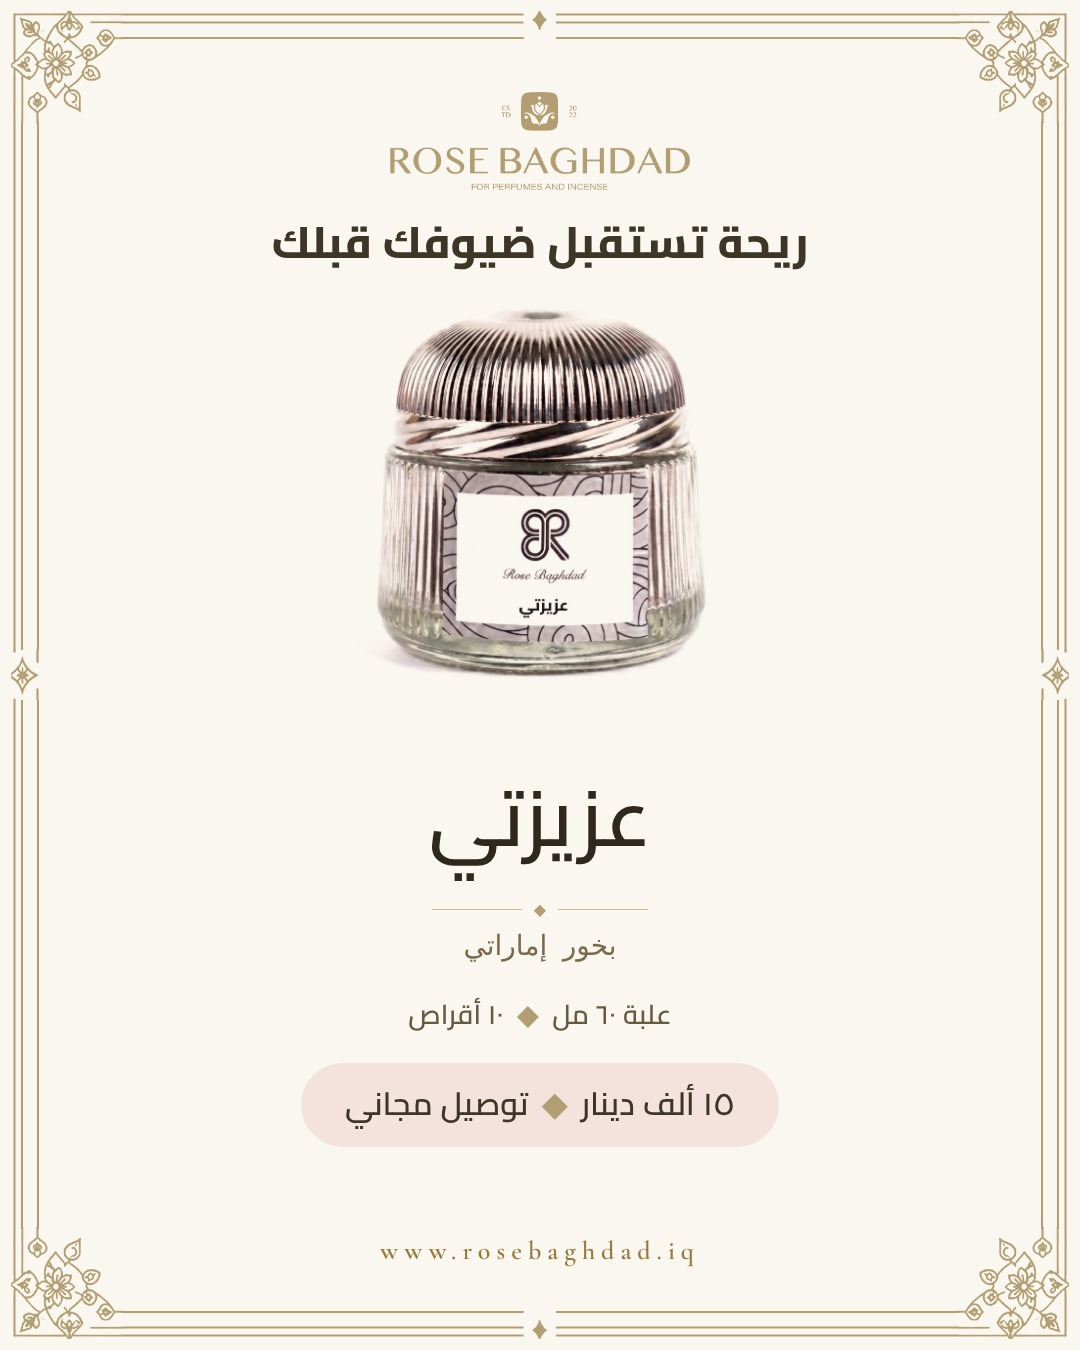
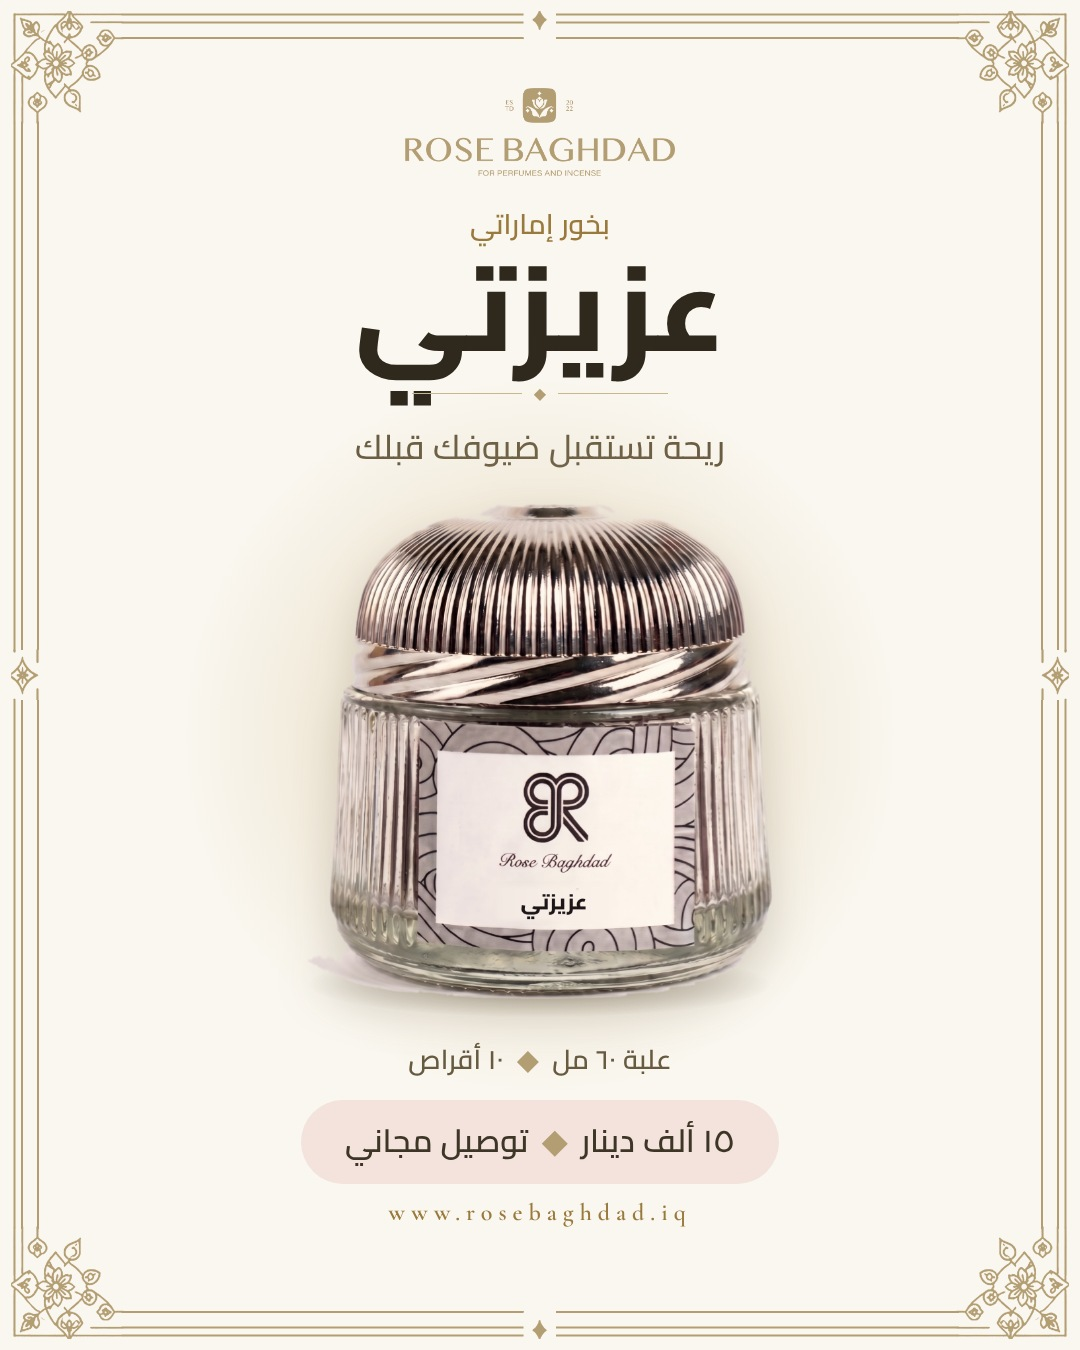
Incense cards v2: name on top, cut-out jar lower with glow and shadow
Claude-Session: https://claude.ai/code/session_01HXze8h1ERTKVVJtJjHvpYz

Changed region(s): [[0.2444, 0.0622, 0.7639, 0.8711], [0.4278, 0.9022, 0.6417, 0.9333]]

diff --git a/tools/frame/incense_card.html b/tools/frame/incense_card.html
@@ -1,0 +1,43 @@
+<!doctype html><html lang="ar"><head><meta charset="utf-8"><style>
+@font-face{font-family:CG;font-weight:600;src:url(../reel/fonts/cormorant-garamond-latin-600-normal.woff2)}
+@font-face{font-family:CA;font-weight:500;src:url(../reel/fonts/cairo-arabic-500-normal.woff2);unicode-range:U+0600-06FF,U+0750-077F,U+FB50-FDFF,U+FE70-FEFF,U+066B-066C}
+@font-face{font-family:CA;font-weight:600;src:url(../reel/fonts/cairo-arabic-600-normal.woff2);unicode-range:U+0600-06FF,U+0750-077F,U+FB50-FDFF,U+FE70-FEFF,U+066B-066C}
+@font-face{font-family:CA;font-weight:800;src:url(../reel/fonts/cairo-arabic-800-normal.woff2);unicode-range:U+0600-06FF,U+0750-077F,U+FB50-FDFF,U+FE70-FEFF,U+066B-066C}
+html,body{margin:0;background:#faf7f0}
+#r{width:1080px;position:relative;overflow:hidden;background:#faf7f0;display:flex;flex-direction:column;align-items:center;box-sizing:border-box}
+#fr{position:absolute;left:0;top:0;width:100%;height:100%}
+#r>*:not(#fr){position:relative}
+.kick{font-family:CA;font-weight:600;direction:rtl;color:#9a7a3c;letter-spacing:0}
+.name{font-family:CA;font-weight:800;direction:rtl;color:#2e281d;line-height:1.15}
+.dv{display:flex;align-items:center;gap:12px;color:#b39d72;font-size:16px}
+.dv i{display:block;width:110px;height:1px;background:#c9b88f}
+.hook{font-family:CA;font-weight:500;direction:rtl;color:#665a41;text-align:center}
+.stage{display:flex;justify-content:center;align-items:flex-end}
+.glow{position:absolute;left:50%;top:50%;transform:translate(-50%,-52%);border-radius:50%;background:radial-gradient(circle,rgba(201,173,116,.42) 0%,rgba(201,173,116,.16) 45%,rgba(201,173,116,0) 70%)}
+.sh{position:absolute;left:50%;transform:translateX(-50%);border-radius:50%;background:radial-gradient(ellipse at center,rgba(61,46,20,.42) 0%,rgba(61,46,20,.14) 45%,rgba(61,46,20,0) 72%)}
+.jar{position:relative;filter:drop-shadow(0 18px 22px rgba(61,46,20,.18))}
+.ft{font-family:CA;font-weight:600;direction:rtl;color:#665a41}
+.ft b,.pill b{color:#b39d72;font-weight:600;margin:0 14px}
+.pill{font-family:CA;font-weight:600;direction:rtl;background:#f4e2dc;color:#3d3627;border-radius:60px}
+.cta{font-family:CA;font-weight:800;direction:rtl;color:#3d3627;background:#b39d72;border-radius:60px}
+.url{font-family:CG;font-weight:600;letter-spacing:6px;color:#9a7a3c}
+</style></head><body><div id="r"></div>
+<script>
+const q=new URLSearchParams(location.search),S=q.get('f')==='story',r=document.getElementById('r'),J=S?640:500;
+r.style.height=(S?1920:1350)+'px';
+r.innerHTML=`<img id="fr" src="frame_${S?'story':'feed'}.png">
+<img src="../reel/horizontal_gold.png" style="width:${S?320:270}px;margin-top:${S?235:88}px">
+<div class="kick" style="font-size:${S?34:28}px;margin-top:${S?46:22}px">بخور إماراتي</div>
+<div class="name" style="font-size:${S?150:118}px;margin-top:${S?0:-6}px">${q.get('name')}</div>
+<div class="dv" style="margin-top:${S?14:4}px"><i></i>◆<i></i></div>
+<div class="hook" style="font-size:${S?42:34}px;margin-top:${S?22:12}px">${q.get('hook')}</div>
+<div class="stage" style="height:${J}px;margin-top:${S?44:22}px">
+ <div class="glow" style="width:${J*1.45}px;height:${J*1.45}px"></div>
+ <div class="sh" style="width:${J*.92}px;height:${J*.13}px;bottom:${-J*.035}px"></div>
+ <img class="jar" src="cut/${q.get('k')}.png" style="height:${J}px">
+</div>
+<div class="ft" style="font-size:${S?32:27}px;margin-top:${S?52:34}px">علبة ٦٠ مل<b>◆</b>١٠ أقراص</div>
+<div class="pill" style="font-size:${S?38:32}px;padding:${S?'12px 50px 16px':'10px 44px 14px'};margin-top:${S?24:16}px">١٥ ألف دينار<b>◆</b>توصيل مجاني</div>
+${S?`<div class="cta" style="font-size:36px;padding:8px 60px 14px;margin-top:26px">راسلنا لتثبيت طلبك</div>`:''}
+<div class="url" style="font-size:${S?28:24}px;margin-top:${S?24:14}px">www.rosebaghdad.iq</div>`;
+</script></body></html>

diff --git a/tools/frame/incense.py b/tools/frame/incense.py
@@ -1,29 +1,36 @@
-"""Rose Baghdad incense: same jar, the name on the label changes. Renders feed + story in the unified frame.
-python3 tools/frame/incense.py"""
+"""Rose Baghdad incense: same jar, the name on the label changes. Cuts the jar out of its backdrop and
+renders feed + story in the unified frame (name on top, jar below).  python3 tools/frame/incense.py"""
 import asyncio,os,urllib.parse,io
 from playwright.async_api import async_playwright
-from PIL import Image,ImageFilter,ImageDraw
+from PIL import Image,ImageFilter,ImageDraw,ImageChops
 import numpy as np
-N={'azizati':('عزيزتي','ريحة تستقبل ضيوفك قبلك'),'sayidati':('سيدتي','لمسة فخامة تكمل جلستك'),'fakher':('فاخر','بخور يليق بمجلسك'),'shurooq':('شروق','بيتك يستاهل ريحة تبقى بالبال')}
+N={'shaikha':('شيخه','تفاصيل تحبها بجلساتك'),'azizati':('عزيزتي','ريحة تستقبل ضيوفك قبلك'),'sayidati':('سيدتي','لمسة فخامة تكمل جلستك'),'fakher':('فاخر','بخور يليق بمجلسك'),'shurooq':('شروق','بيتك يستاهل ريحة تبقى بالبال')}
 H=os.path.dirname(os.path.abspath(__file__)); R=os.path.dirname(os.path.dirname(H))
-def clean(im):
-    w,h=im.size; im=im.crop((int(w*.08),int(h*.12),int(w*.92),int(h*.90)))
-    a=np.clip(np.asarray(im).astype(float)*255/228,0,255); im=Image.fromarray(a.astype('uint8'))
-    W,Hh=im.size; m=Image.new('L',(W,Hh),0); p=int(W*.07); ImageDraw.Draw(m).rectangle((p,p,W-p,Hh-p),fill=255); m=m.filter(ImageFilter.GaussianBlur(p*.5))
-    o=Image.new('RGB',(W,Hh),'white'); o.paste(im,(0,0),m); return o
+def cut(im):
+    """Remove the white studio backdrop: everything near-white that is connected to the picture edge."""
+    a=np.asarray(im).astype(int); light=(a.min(axis=2)>222)&((a.max(axis=2)-a.min(axis=2))<22)
+    from scipy import ndimage
+    lab,_=ndimage.label(light); edge=np.unique(np.concatenate([lab[0],lab[-1],lab[:,0],lab[:,-1]])); edge=edge[edge>0]
+    bg=np.isin(lab,edge)
+    al=Image.fromarray(((~bg)*255).astype('uint8')).filter(ImageFilter.MinFilter(5)).filter(ImageFilter.GaussianBlur(2.2))
+    # warm the cold studio whites slightly so the glass sits on the cream ground
+    warm=ImageChops.multiply(im,Image.new('RGB',im.size,(255,250,240)))
+    o=warm.convert('RGBA'); o.putalpha(al); return o.crop(o.getbbox())
 async def main():
+  os.makedirs(H+'/cut',exist_ok=True)
   async with async_playwright() as p:
     b=await p.chromium.launch();pg=await b.new_page(viewport={'width':1856,'height':2304})
     for k,(n,_) in N.items():
-      await pg.goto('file://'+H+'/incense_label.html?'+urllib.parse.urlencode({'n':n}));await pg.evaluate('document.fonts.ready');await pg.wait_for_timeout(300)
-      im=Image.open(io.BytesIO(await pg.locator('#r').screenshot(type='png'))).convert('RGB')
-      clean(im).save(f'{R}/tools/reel/bottles/incense-{k}.jpg',quality=93)
+      if k=='shaikha': im=Image.open(H+'/incense-jar-src.jpg').convert('RGB')
+      else:
+        await pg.goto('file://'+H+'/incense_label.html?'+urllib.parse.urlencode({'n':n}));await pg.evaluate('document.fonts.ready');await pg.wait_for_timeout(300)
+        im=Image.open(io.BytesIO(await pg.locator('#r').screenshot(type='png'))).convert('RGB')
+      cut(im).save(f'{H}/cut/incense-{k}.png')
     await pg.set_viewport_size({'width':1080,'height':1920})
     for k,(n,hook) in N.items():
       os.makedirs(f'{R}/posts/incense-{k}',exist_ok=True)
-      for f,hh,sz in [('feed','440','1080x1350'),('story','600','1080x1920')]:
-        q={'k':'incense-'+k,'name':n,'hook':hook,'ml':'بخور إماراتي','ft':'علبة ٦٠ مل<b>◆</b>١٠ أقراص','pill':'١٥ ألف دينار<b>◆</b>توصيل مجاني','ls':'0','f':f,'h':hh}
-        await pg.goto('file://'+H+'/frame.html?'+urllib.parse.urlencode(q));await pg.evaluate('document.fonts.ready');await pg.wait_for_timeout(300)
-        await pg.locator('#r').screenshot(path=f'{R}/posts/incense-{k}/{f}-{sz}.jpg',type='jpeg',quality=92)
+      for f,sz in [('feed','1080x1350'),('story','1080x1920')]:
+        await pg.goto('file://'+H+'/incense_card.html?'+urllib.parse.urlencode({'k':'incense-'+k,'name':n,'hook':hook,'f':f}));await pg.evaluate('document.fonts.ready');await pg.wait_for_timeout(400)
+        await pg.locator('#r').screenshot(path=f'{R}/posts/incense-{k}/{f}-{sz}.jpg',type='jpeg',quality=93)
     await b.close()
 asyncio.run(main())
